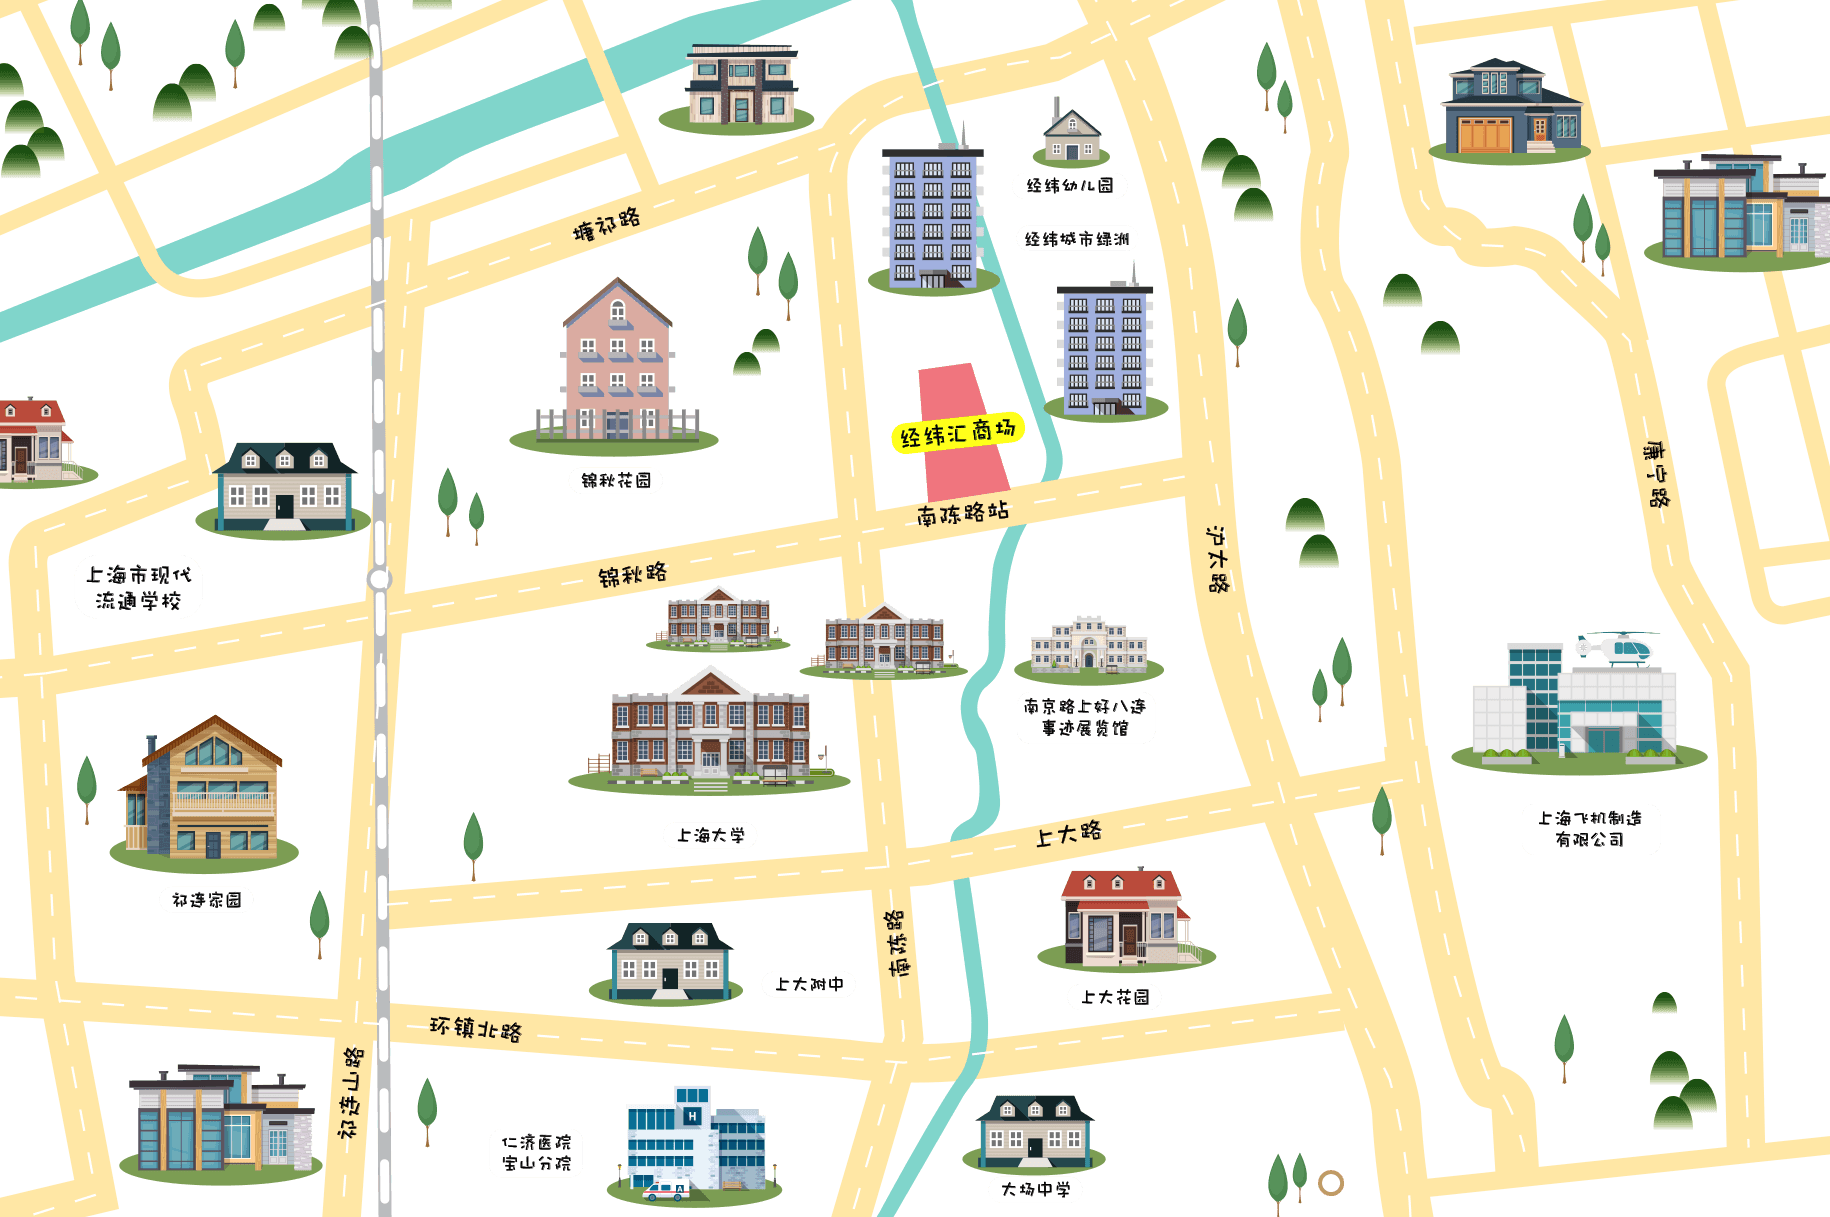
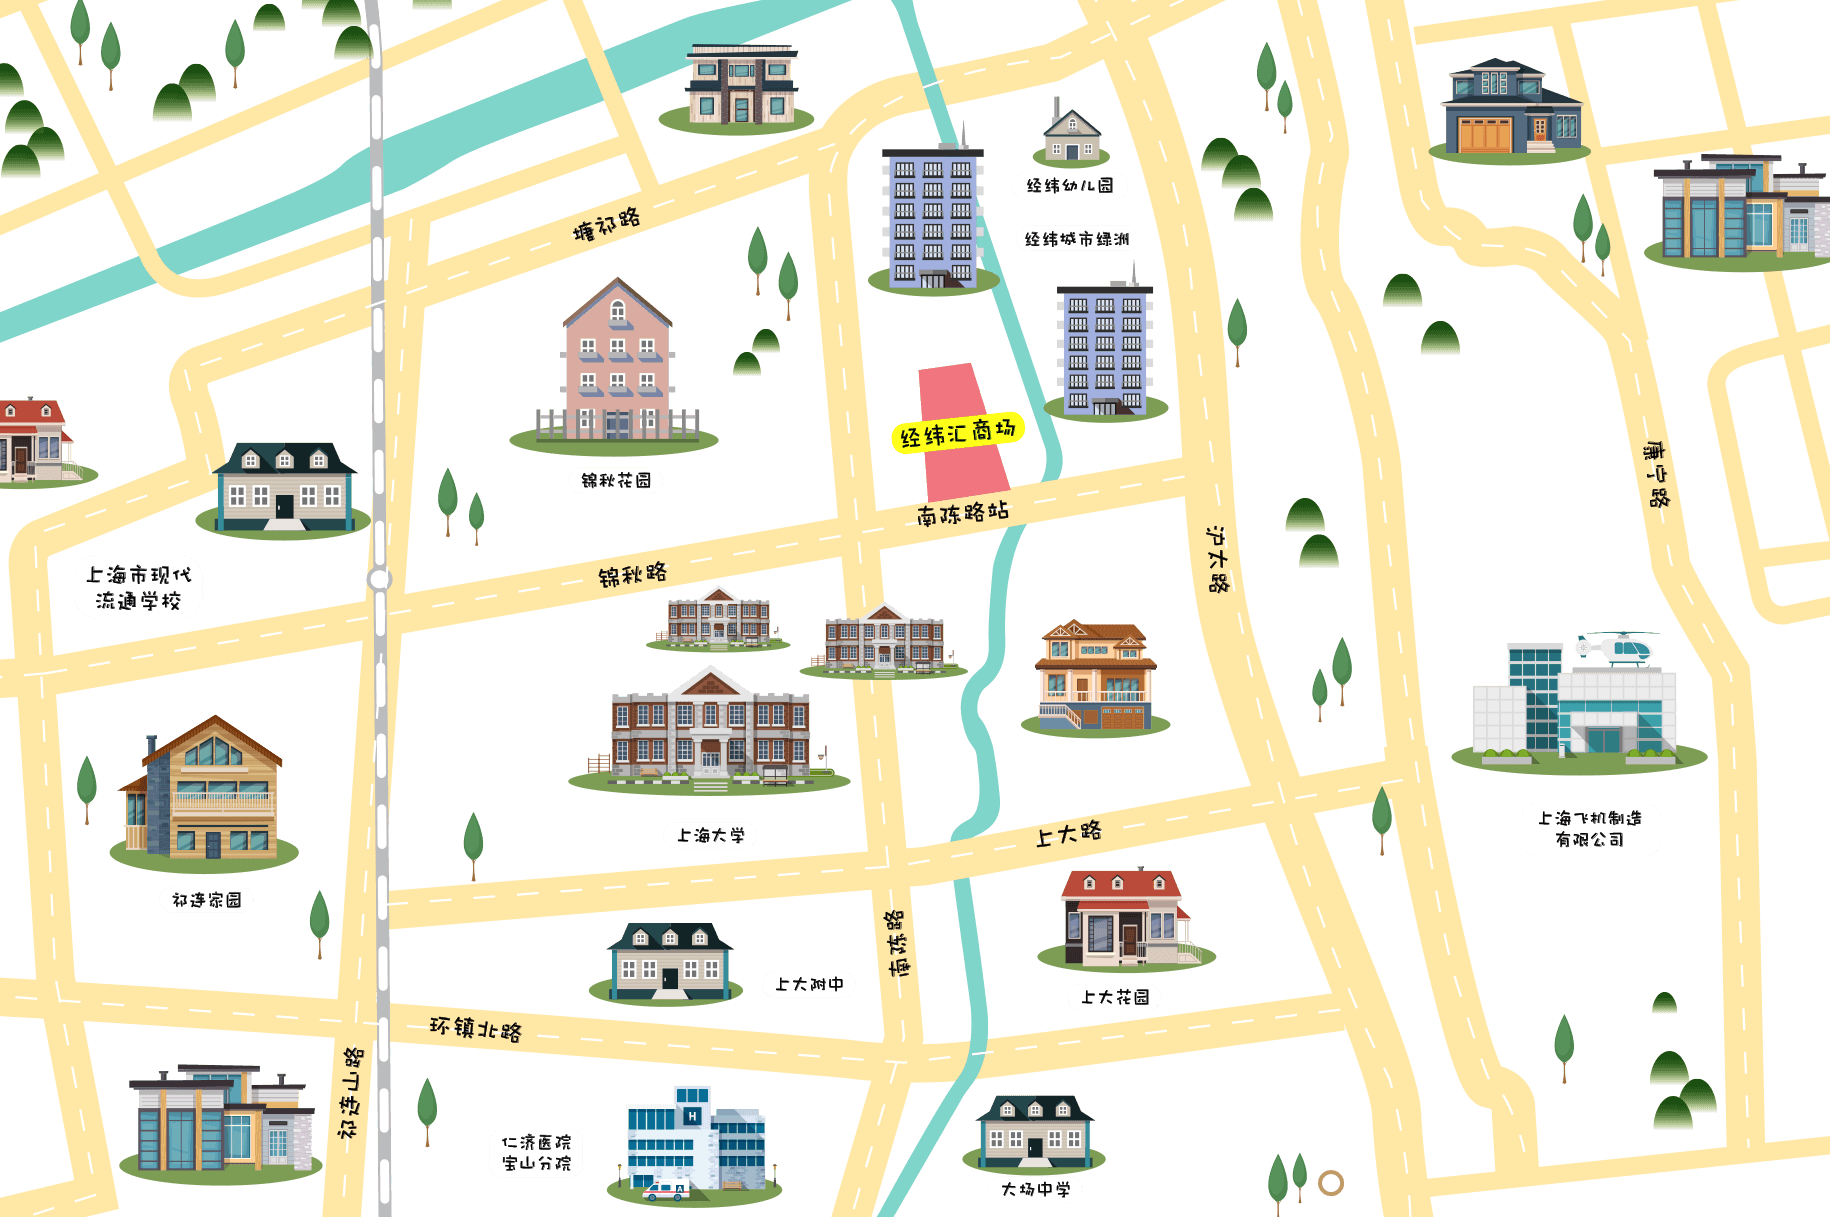
修改地图图片

Changed region(s): [[0.5607, 0.4996, 0.6541, 0.6245]]

diff --git a/index.html b/index.html
@@ -27,7 +27,7 @@
             <div class="map">
                 <img src="images/mapBox/3.png" class="full sideway">
                 <img src="images/mapBox/4.png?v=1" class="full school">
-                <img src="images/mapBox/5.png" class="full">
+                <img src="images/mapBox/5.png?v=1" class="full">
                 <img src="images/mapBox/2.png" class="full metro">
                 <img src="images/mapBox/1.png" class="full store">
                 <img src="images/common/hand.png" class="hand handMoving2 hide hand1">
